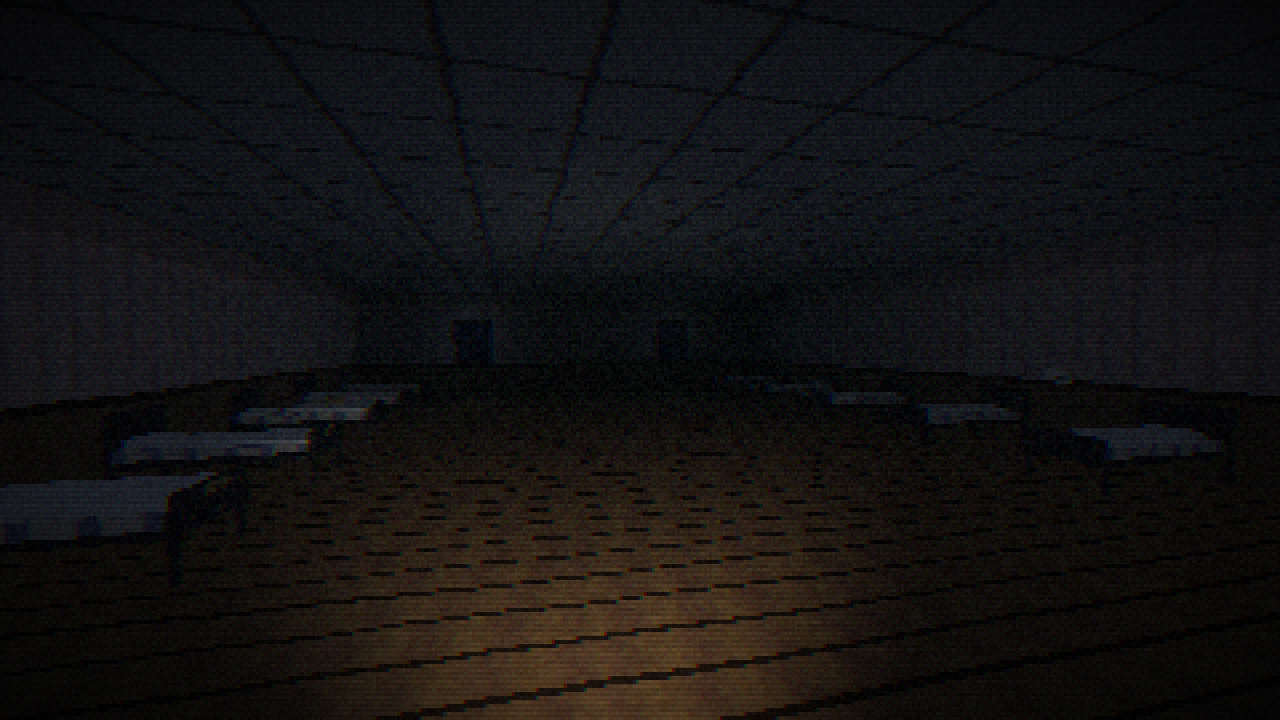
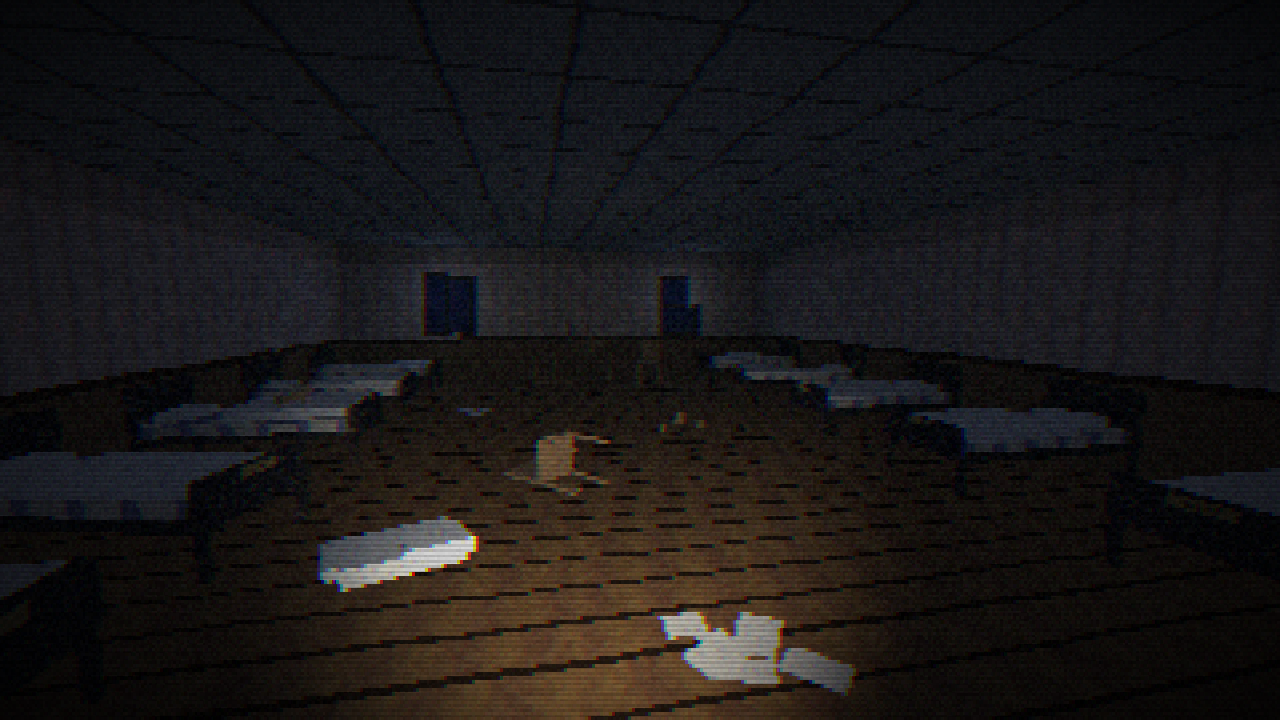
Make the dorm smaller and messier after owner feedback
Claude-Session: https://claude.ai/code/session_01Kt2ajWcwzg7QhP3mDk3ZUu

diff --git a/src/props/catalog.js b/src/props/catalog.js
@@ -86,4 +86,47 @@ function ghostChild(t, { opacity = 0.55 } = {}) {
   return group(gown, head, ...arms);
 }
 
-export const PROPS = { bed, table, tapeRecorder, toyHorse, cubbies, drawing, windowFrame, fluorescent, ghostChild };
+// Wooden chair; toppled lies on its back.
+function chair(t, { toppled = false } = {}) {
+  const legs = [[-0.18, -0.18], [0.18, -0.18], [-0.18, 0.18], [0.18, 0.18]].map(([x, z]) => box(t.paintedWood, [0.04, 0.45, 0.04], [x, 0, z]));
+  const c = group(...legs, box(t.paintedWood, [0.42, 0.04, 0.42], [0, 0.45, 0]), box(t.paintedWood, [0.42, 0.45, 0.04], [0, 0.49, -0.19]));
+  if (toppled) {
+    c.rotation.x = -Math.PI / 2;
+    c.position.set(0, 0.21, 0.25);
+    return group(c);
+  }
+  return c;
+}
+
+// Loose sheets of paper on the floor (letters, register pages).
+function papers(t, { count = 4 } = {}) {
+  const sheets = [];
+  for (let i = 0; i < count; i++) {
+    const sheet = plane(t.sheet, [0.21, 0.29], [((i * 37) % 7) * 0.08 - 0.25, 0.005 + i * 0.002, ((i * 53) % 5) * 0.09 - 0.2]);
+    sheet.rotation.set(-Math.PI / 2, 0, i * 1.3);
+    sheets.push(sheet);
+  }
+  return group(...sheets);
+}
+
+// Wooden toy blocks, a few stacked, a few spilled.
+function blocks(t) {
+  const spots = [[0, 0, 0], [0.09, 0, 0.02], [0.04, 0.08, 0.01], [0.3, 0, 0.2], [-0.25, 0, 0.3], [0.15, 0, -0.3]];
+  return group(...spots.map(([x, y, z], i) => {
+    const b = box(t.paintedWood, [0.08, 0.08, 0.08], [x, y, z]);
+    b.rotation.y = i * 0.7;
+    return b;
+  }));
+}
+
+// Sheet pulled off a bed, heaped on the floor.
+function sheetPile(t) {
+  const lumps = [[0, 0, 0, 0.7, 0.12, 0.5], [0.2, 0.05, 0.1, 0.4, 0.1, 0.35], [-0.25, 0, -0.1, 0.35, 0.08, 0.4]];
+  return group(...lumps.map(([x, y, z, w, h, d]) => box(t.sheet, [w, h, d], [x, y, z])));
+}
+
+export const PROPS = {
+  chair,
+  papers,
+  blocks,
+  sheetPile, bed, table, tapeRecorder, toyHorse, cubbies, drawing, windowFrame, fluorescent, ghostChild };

diff --git a/src/mockups/stills.js b/src/mockups/stills.js
@@ -59,15 +59,15 @@ const STILLS = {
   dorm: {
     level: dorms,
     setup({ world }) {
-      aim(world.camera, [5.6, 1.6, 17.0], -14, -2);
+      aim(world.camera, [5.0, 1.6, 12.6], -12, -6);
     },
   },
   // Tommy, far away at the end of the dorm, lit only by the moonlight.
   tommy: {
     level: dorms,
     setup({ world }) {
-      addGhost(world, [7.4, 6.2], { opacity: 0.6 });
-      aim(world.camera, [7.0, 1.6, 15.5], 2, -2);
+      addGhost(world, [5.9, 3.4], { opacity: 0.6 });
+      aim(world.camera, [5.85, 1.6, 12.4], 0, -2);
     },
     ui(ctx) {
       subtitle(ctx, '(Tommy, whispering) Follow me. They put the names wrong.');
@@ -77,10 +77,10 @@ const STILLS = {
   low_sanity: {
     level: dorms,
     setup({ world, fx }) {
-      addGhost(world, [4.0, 9.5], { opacity: 0.35, rotation: 0.6 });
-      addGhost(world, [10.4, 7.0], { opacity: 0.3, rotation: -0.5 });
-      addGhost(world, [7.8, 4.6], { opacity: 0.4 });
-      aim(world.camera, [7.0, 1.55, 14.0], -6, -3, 6);
+      addGhost(world, [3.4, 8.0], { opacity: 0.35, rotation: 0.6 });
+      addGhost(world, [8.2, 6.0], { opacity: 0.3, rotation: -0.5 });
+      addGhost(world, [6.2, 3.8], { opacity: 0.4 });
+      aim(world.camera, [5.8, 1.55, 11.8], -6, -3, 6);
       Object.assign(fx, { aberration: 2, blur: 0.5, vignette: 0.6 });
     },
   },
@@ -88,7 +88,7 @@ const STILLS = {
   rewind: {
     level: dorms,
     setup({ world, fx }) {
-      aim(world.camera, [7.0, 1.2, 12.0], 20, 10, 18);
+      aim(world.camera, [5.8, 1.2, 10.0], 20, 10, 18);
       Object.assign(fx, { rewind: 1, aberration: 1.5 });
     },
     ui(ctx) {

diff --git a/CHANGELOG.md b/CHANGELOG.md
@@ -2,6 +2,7 @@
 
 Newest first. One line per change.
 
+- 0.1.15 — Dorm mockup revised after owner feedback: smaller room (10 beds), more mess (unmade beds, sheet pile, toppled chair, papers, blocks); new props chair, papers, blocks, sheet pile.
 - 0.1.14 — 0.2 design picks recorded; mockup stills for intro, hub, dorm, Tommy, low sanity and rewind rendered with the real engine (props, room textures, per-level ambient, new screen effects: blur, aberration, eyelids, vignette, rewind).
 - 0.1.13 — Sound batch 4: VHS rewind/insert/eject, tape hiss, tinnitus, radio static, menu blip, waking gasp, drip, fluorescent buzz (owner confirmed CC0). All 0.2 sounds are in; sound script gains a start offset.
 - 0.1.12 — Batch-3 credits complete: fixed laugh link, owner confirmed all batch-3 sounds are CC0.
